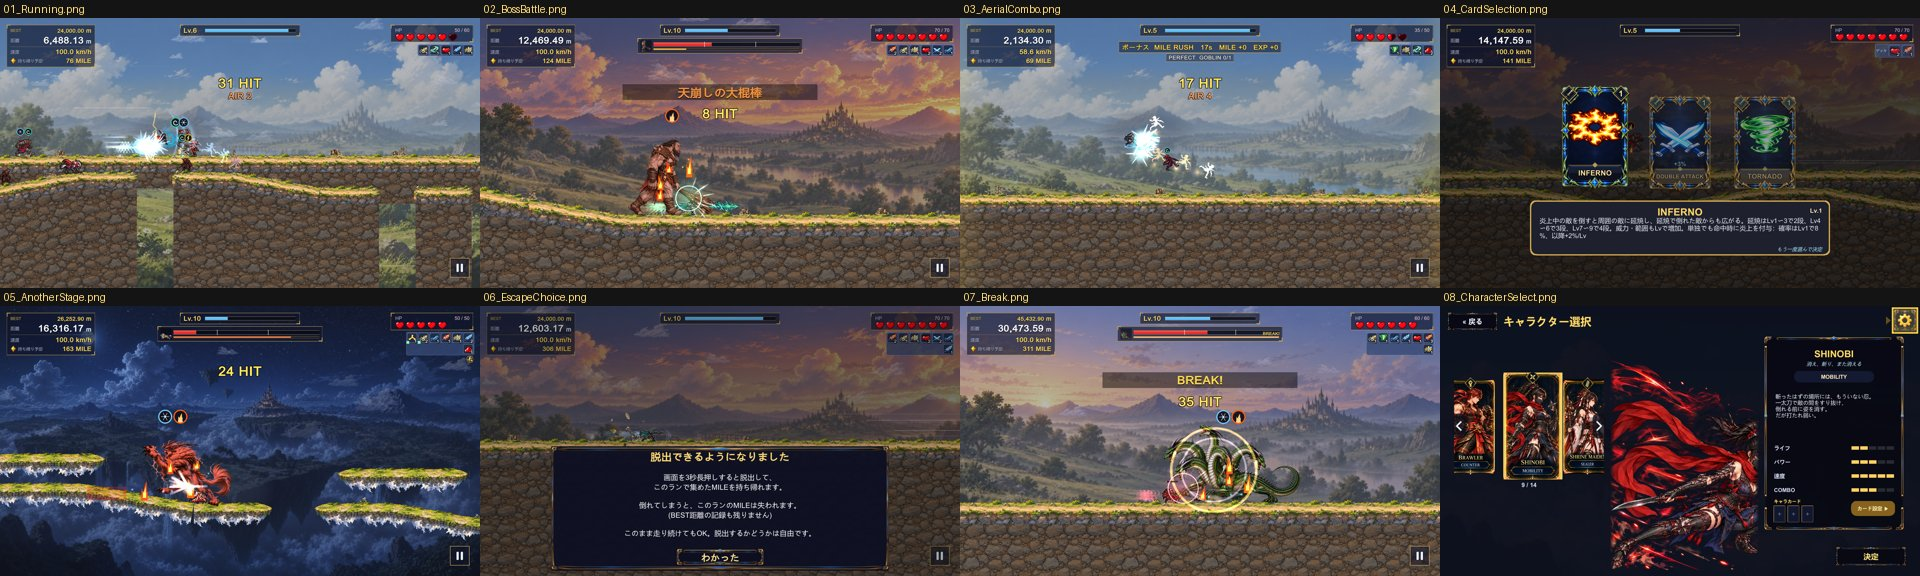
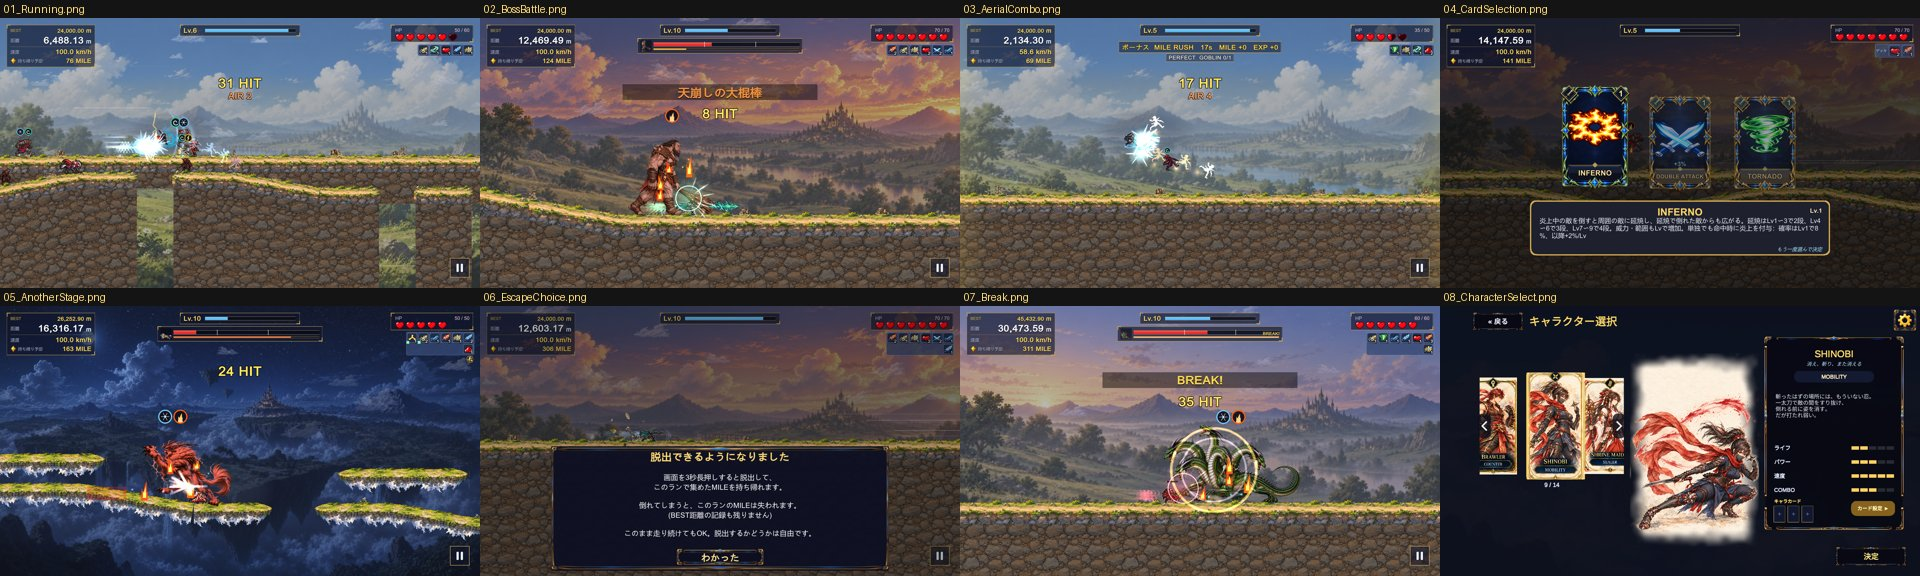
Google Play 8枚目(キャラ選択)を Android 版で撮り直し: 幻想画・Android の衣装(日英)
- BuildStoreCapture.BuildAndroid: Android の撮影用 APK(開発版にしない = 透かし/開発用の表示なし、番号は進めない)
- -qaCharSelect に -csLang / -scClean。エミュレーター 1920x1080 で14人を撮影、衣装の判定 28/28(立ち絵は外周を除いて比べる)
- 変更前後と14人の一覧: Docs/GooglePlay_2026-11-01/round2

diff --git a/Unity/2ndAction/Assets/Editor/BuildStoreCapture.cs b/Unity/2ndAction/Assets/Editor/BuildStoreCapture.cs
@@ -50,4 +50,31 @@ public static class BuildStoreCapture
             AssetDatabase.SaveAssets();
         }
     }
+
+    // Google Play 用の撮影(2026-11-01): Android 版(女性7人は布を増やした衣装)の画面を撮るための APK。考え方は上の Windows 版と同じ
+    //  (開発版にしない = 右下の「Development Build」も開発用の表示も出ない。撮影の仕組みだけを記号で含める)。
+    //  版の番号は進めない。署名は今の設定のまま(デバッグ用の鍵)。エミュレーターで撮る専用で、配る物ではない。
+    //  出力: Builds/StoreCaptureAndroid/omm_capture.apk
+    const string AndroidOutputPath = "Builds/StoreCaptureAndroid/omm_capture.apk";
+
+    [MenuItem("Tools/2ndAction/Build Android Store Capture")]
+    public static void BuildAndroid()
+    {
+        string dir = Path.GetDirectoryName(AndroidOutputPath);
+        if (!Directory.Exists(dir)) Directory.CreateDirectory(dir);
+        PlayerSettings.Android.forceInternetPermission = true;
+        NetPrefabBuilder.Build();
+        var opts = new BuildPlayerOptions
+        {
+            scenes = System.Array.ConvertAll(System.Array.FindAll(EditorBuildSettings.scenes, s => s.enabled), s => s.path),
+            locationPathName = AndroidOutputPath,
+            target = BuildTarget.Android,
+            options = BuildOptions.None,
+            extraScriptingDefines = new[] { "DEVELOPMENT_BUILD", "OMM_CAPTURE" },
+        };
+        BuildReport report;
+        using (new BrandSplashSetup.AndroidScope())
+            report = BuildPipeline.BuildPlayer(opts);
+        Debug.Log("BuildStoreCapture: result=" + report.summary.result + " path=" + report.summary.outputPath);
+    }
 }

diff --git a/Tools/charart/costume_check.py b/Tools/charart/costume_check.py
@@ -80,6 +80,10 @@ def main():
                 box = (int(round(x)), int(round(H - (y + h))), int(round(x + w)), int(round(H - y)))
                 crop = shot.crop(box)
                 s, a = sources(proj, cid, slot)
+                if slot == "main":  # 2026-11-01: 立ち絵は外周を黒へなじませて表示する → 外周を除いた中央(縦横 70%)だけで比べる
+                    def inner(im):
+                        w, h = im.size; return im.crop((int(w * 0.15), int(h * 0.15), int(w * 0.85), int(h * 0.85)))
+                    crop, s = inner(crop), inner(s); a = inner(a) if a is not None else None
                 # 2つの衣装の差を見る大きさ(小さすぎると差が消える)
                 size = (max(32, crop.width // 2), max(48, crop.height // 2))
                 v, es, ea = judge(crop, s, a, size)

diff --git a/Unity/2ndAction/Assets/Scripts/QaSweep.CharSelect.cs b/Unity/2ndAction/Assets/Scripts/QaSweep.CharSelect.cs
@@ -14,6 +14,9 @@ public partial class QaSweep
         gm = GameManager.Instance;
         UnlockRules.DevUnlockAll = true; // 2026-10-28: まだ解放していない人も撮る
         CharacterSelectUI.PaperFade = Arg("-csPaperFade", "1") != "0"; // 2026-11-01: 0 = 変更前(紙の四角い縁)の見た目で撮る
+        string csLang = Arg("-csLang", ""); // 2026-11-01: Google Play の英語版の撮影
+        if (csLang != "" && Loc.Current != csLang) Loc.Set(csLang, false);
+        if (Arg("-scClean", "0") == "1") StoreCapture.Clean = true; // ストア用の撮影: 開発用の表示(build の番号/DEV BUILD/TEST FILE)を出さない
         yield return new WaitForSecondsRealtime(1.5f);
         gm.OpenCharacterSelect();
         yield return new WaitForSecondsRealtime(1.5f);
